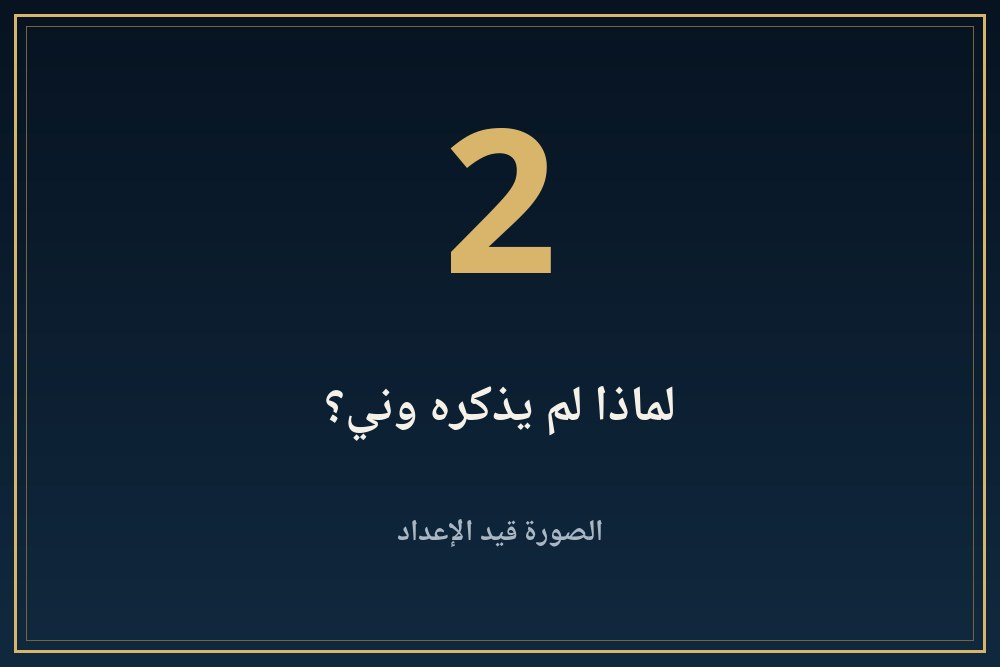
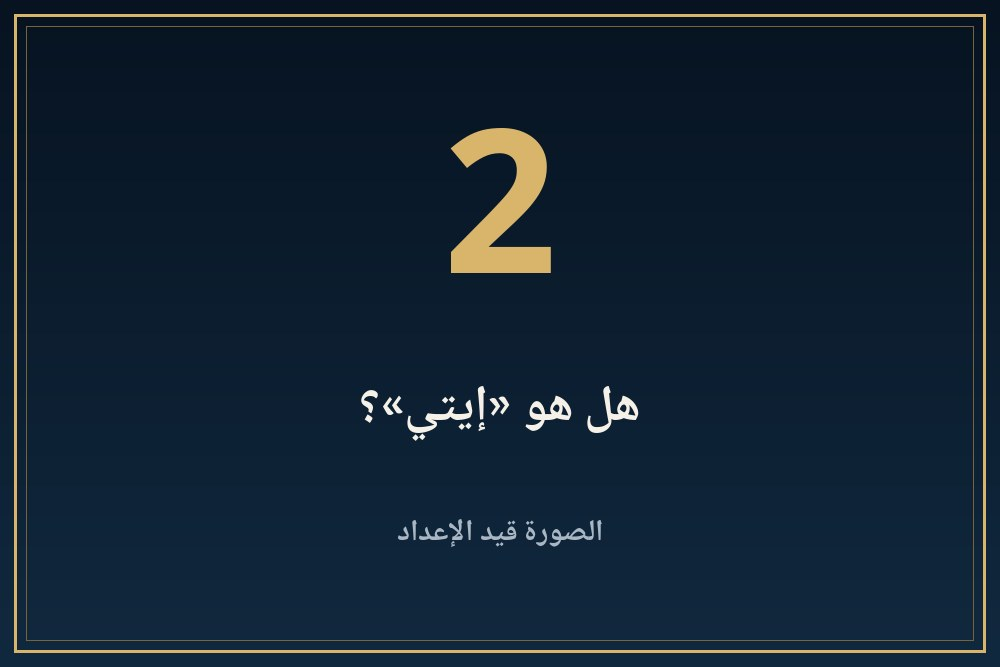
King 032: rebuilt from updated content (placeholders, audio pending)

Changed region(s): [[0.31, 0.5697, 0.682, 0.6597]]

diff --git a/kings/032-awsr-ka-ra/index.html b/kings/032-awsr-ka-ra/index.html
@@ -324,7 +324,7 @@ html[dir=ltr] #panav.open,#pash[dir=ltr] #panav.open{border-right:0!important;bo
 <div class="row"><span class="bdg v">موثّق</span><span>مذكور في مصدر مرقّم يمكن فتحه من قسم المراجع.</span></div>
 <div class="row"><span class="bdg d">محل خلاف</span><span>الصفحة نفسها تذكر أن الباحثين أو المصادر مختلفون فيه.</span></div>
 <div class="row"><span class="bdg u">لم يُتحقق منه</span><span>الصفحة تذكر أنه من مصدر واحد ولم يُتحقق منه في مصدر ثانٍ.</span></div></div>
-<div class="band" aria-hidden="true"></div><details class="acc k1" id="s1"><summary><img class="bnr" src="banners/b01.jpg?v=1" alt="" width="1000" height="667"><span class="n">1</span><span class="t">ماذا قال سليم حسن؟</span><span class="ch"></span></summary><div class="body"><button class="lbtn" type="button" disabled aria-disabled="true" style="opacity:.55;cursor:default"><svg viewBox="0 0 24 24" fill="currentColor" aria-hidden="true"><path d="M7 4.5v15a1 1 0 001.5.86l12-7.5a1 1 0 000-1.72l-12-7.5A1 1 0 007 4.5z"/></svg><span>التعليق الصوتي قريبًا</span></button><p><span class="bdg v">موثّق</span> يذكر سليم حسن (ج1 ص275) أن موظفا جاء بمئة رام وألف حجار لقطع أحجار هرم وسر كا رع، وأن وني لم يذكره.<sup><a href="#r1">[1]</a></sup></p></div></details><details class="acc k2" id="s2"><summary><img class="bnr" src="banners/b02.jpg?v=1" alt="" loading="lazy" width="1000" height="667"><span class="n">2</span><span class="t">لماذا لم يذكره وني؟</span><span class="ch"></span></summary><div class="body"><button class="lbtn" type="button" disabled aria-disabled="true" style="opacity:.55;cursor:default"><svg viewBox="0 0 24 24" fill="currentColor" aria-hidden="true"><path d="M7 4.5v15a1 1 0 001.5.86l12-7.5a1 1 0 000-1.72l-12-7.5A1 1 0 007 4.5z"/></svg><span>التعليق الصوتي قريبًا</span></button><p><span class="bdg v">موثّق</span> يقول سليم حسن (ص275) إن وني لم يذكره. ولم نقرأ تفسيرا في مصادرنا، فلا نذكر تفسيرا.<sup><a href="#r1">[1]</a></sup></p></div></details><details class="acc k3" id="s3"><summary><img class="bnr" src="banners/b03.jpg?v=1" alt="" loading="lazy" width="1000" height="667"><span class="n">3</span><span class="t">ما لا نعرفه</span><span class="ch"></span></summary><div class="body"><button class="lbtn" type="button" disabled aria-disabled="true" style="opacity:.55;cursor:default"><svg viewBox="0 0 24 24" fill="currentColor" aria-hidden="true"><path d="M7 4.5v15a1 1 0 001.5.86l12-7.5a1 1 0 000-1.72l-12-7.5A1 1 0 007 4.5z"/></svg><span>التعليق الصوتي قريبًا</span></button><p><span class="bdg u">لم يُتحقق منه</span> لا نعرف مدة حكمه ولا أسرته ولا هرمه. وسنضيف ما نقرؤه.</p></div></details><details class="acc k4" id="refs"><summary><img class="bnr" src="banners/b04.jpg?v=1" alt="" loading="lazy" width="1000" height="667"><span class="n">4</span><span class="t">المراجع</span><span class="ch"></span></summary><div class="body"><button class="lbtn" type="button" disabled aria-disabled="true" style="opacity:.55;cursor:default"><svg viewBox="0 0 24 24" fill="currentColor" aria-hidden="true"><path d="M7 4.5v15a1 1 0 001.5.86l12-7.5a1 1 0 000-1.72l-12-7.5A1 1 0 007 4.5z"/></svg><span>التعليق الصوتي قريبًا</span></button><p><b>مصادر فتحتُ صفحاتها وقرأتها:</b></p><ol><li id="r1" dir="auto">سليم حسن، موسوعة مصر القديمة، ج1، الفصل 15: <a dir="ltr" style="display:inline-block;overflow-wrap:anywhere" href="https://archive.org/details/20201104_20201104_1559" rel="noopener" target="_blank">archive.org/details/20201104_20201104_1559</a></li></ol><div class="flag"><b>تنبيه:</b> عدد المصادر المصرية المفتوحة لهذه الصفحة واحد فقط. لا نضيف تفاصيل لم تثبت في مصدر فتحناه وقرأنا نصه، وحيث يختلف المصدران ننسب كل رأي لصاحبه.</div></div></details></article><aside class="abt" aria-label="عن هذه الصفحة"><h3>عن هذه الصفحة</h3><ul><li><b>المحتوى</b><span>جزء من موسوعة بر عنخ التعليمية. التواريخ والتفسيرات وفق المراجع المتاحة، وقد تختلف التفاصيل بين الدراسات.</span></li><li><b>الصور</b><span>صور هذه الصفحة أماكن حجز مؤقتة إلى أن تُضاف الصور الفنية.</span></li><li><b>الصوت</b><span>التعليق الصوتي قيد الإعداد.</span></li></ul></aside><a class="back" href="/kings/">← تصفح المزيد</a><a class="back" href="/">العودة إلى الرئيسية</a><dialog id="lb"><img alt=""><p></p><button type="button">إغلاق</button></dialog>
+<div class="band" aria-hidden="true"></div><details class="acc k1" id="s1"><summary><img class="bnr" src="banners/b01.jpg?v=1" alt="" width="1000" height="667"><span class="n">1</span><span class="t">من هو؟</span><span class="ch"></span></summary><div class="body"><button class="lbtn" type="button" disabled aria-disabled="true" style="opacity:.55;cursor:default"><svg viewBox="0 0 24 24" fill="currentColor" aria-hidden="true"><path d="M7 4.5v15a1 1 0 001.5.86l12-7.5a1 1 0 000-1.72l-12-7.5A1 1 0 007 4.5z"/></svg><span>التعليق الصوتي قريبًا</span></button><p><span class="bdg v">موثّق</span> يقول كتاب الميت (ص35) إن بردية تورين وحجر جنوب سقارة يدلان على وجود فرعون بين تيتي وبيبي الأول، قد يكون الملك وسر كا رع المذكور في قائمة سيتي الأول في أبيدوس. ويضع نور الدين (ص715) في قائمة الأسرة السادسة «وسر كا رع (؟)» ثانيا. ولا يذكره صالح باسمه في ما قرأناه.<sup><a href="#r2">[2]</a><a href="#r3">[3]</a></sup></p></div></details><details class="acc k2" id="s2"><summary><img class="bnr" src="banners/b02.jpg?v=1" alt="" loading="lazy" width="1000" height="667"><span class="n">2</span><span class="t">هل هو «إيتي»؟</span><span class="ch"></span></summary><div class="body"><button class="lbtn" type="button" disabled aria-disabled="true" style="opacity:.55;cursor:default"><svg viewBox="0 0 24 24" fill="currentColor" aria-hidden="true"><path d="M7 4.5v15a1 1 0 001.5.86l12-7.5a1 1 0 000-1.72l-12-7.5A1 1 0 007 4.5z"/></svg><span>التعليق الصوتي قريبًا</span></button><p><span class="bdg d">محل خلاف</span> يتساءل كتاب الميت (ص35): هل هو «ابن رع إيتي» المذكور في نقشين في وادي الحمامات؟ وهل كان مسؤولا عن مقتل تيتي الذي ذكره مانيتون؟ ويقول إن وثائق قليلة حملت اسمه، وهرمه مجهول، وإن النصوص السيرية تنتقل مباشرة من تيتي إلى بيبي الأول. كلها أسئلة بلا جواب.<sup><a href="#r3">[3]</a></sup></p></div></details><details class="acc k3" id="s3"><summary><img class="bnr" src="banners/b03.jpg?v=1" alt="" loading="lazy" width="1000" height="667"><span class="n">3</span><span class="t">ما قاله سليم حسن</span><span class="ch"></span></summary><div class="body"><button class="lbtn" type="button" disabled aria-disabled="true" style="opacity:.55;cursor:default"><svg viewBox="0 0 24 24" fill="currentColor" aria-hidden="true"><path d="M7 4.5v15a1 1 0 001.5.86l12-7.5a1 1 0 000-1.72l-12-7.5A1 1 0 007 4.5z"/></svg><span>التعليق الصوتي قريبًا</span></button><p><span class="bdg v">موثّق</span> يذكر سليم حسن (ص275) أن موظفا جاء بمئة رام وألف حجار لقطع أحجار هرم وسر كا رع، وأن وني لم يذكره.<sup><a href="#r1">[1]</a></sup></p></div></details><details class="acc k4" id="s4"><summary><img class="bnr" src="banners/b04.jpg?v=1" alt="" loading="lazy" width="1000" height="667"><span class="n">4</span><span class="t">ما لا نعرفه</span><span class="ch"></span></summary><div class="body"><button class="lbtn" type="button" disabled aria-disabled="true" style="opacity:.55;cursor:default"><svg viewBox="0 0 24 24" fill="currentColor" aria-hidden="true"><path d="M7 4.5v15a1 1 0 001.5.86l12-7.5a1 1 0 000-1.72l-12-7.5A1 1 0 007 4.5z"/></svg><span>التعليق الصوتي قريبًا</span></button><p><span class="bdg u">لم يُتحقق منه</span> لا نعرف مدة حكمه ولا أسرته ولا هرمه ولا هل قتل تيتي. ونعرض الاحتمالات التي في كتاب الميت دون ترجيح.</p></div></details><details class="acc k4" id="refs"><summary><img class="bnr" src="banners/b05.jpg?v=1" alt="" loading="lazy" width="1000" height="667"><span class="n">5</span><span class="t">المراجع</span><span class="ch"></span></summary><div class="body"><button class="lbtn" type="button" disabled aria-disabled="true" style="opacity:.55;cursor:default"><svg viewBox="0 0 24 24" fill="currentColor" aria-hidden="true"><path d="M7 4.5v15a1 1 0 001.5.86l12-7.5a1 1 0 000-1.72l-12-7.5A1 1 0 007 4.5z"/></svg><span>التعليق الصوتي قريبًا</span></button><p><b>مصادر فتحتُ صفحاتها وقرأتها:</b></p><ol><li id="r1" dir="auto">سليم حسن، موسوعة مصر القديمة، ج1، الفصل 15: <a dir="ltr" style="display:inline-block;overflow-wrap:anywhere" href="https://archive.org/details/20201104_20201104_1559" rel="noopener" target="_blank">archive.org/details/20201104_20201104_1559</a></li><li id="r2" dir="auto">عبد الحليم نور الدين، آثار وحضارة مصر القديمة ج1، أرقام صفحات PDF: <a dir="ltr" style="display:inline-block;overflow-wrap:anywhere" href="https://archive.org/details/AAlexandrina-117303" rel="noopener" target="_blank">archive.org/details/AAlexandrina-117303</a></li><li id="r3" dir="auto">The Metropolitan Museum of Art, Egyptian Art in the Age of the Pyramids, 1999 (فصول كوزلوف وأرنولد وزيجلر وجريمال): <a dir="ltr" style="display:inline-block;overflow-wrap:anywhere" href="https://www.metmuseum.org/met-publications/egyptian-art-in-the-age-of-the-pyramids" rel="noopener" target="_blank">www.metmuseum.org/met-publications/egyptian-art-in-the-age-of-the-pyramids</a></li></ol></div></details></article><aside class="abt" aria-label="عن هذه الصفحة"><h3>عن هذه الصفحة</h3><ul><li><b>المحتوى</b><span>جزء من موسوعة بر عنخ التعليمية. التواريخ والتفسيرات وفق المراجع المتاحة، وقد تختلف التفاصيل بين الدراسات.</span></li><li><b>الصور</b><span>صور هذه الصفحة أماكن حجز مؤقتة إلى أن تُضاف الصور الفنية.</span></li><li><b>الصوت</b><span>التعليق الصوتي قيد الإعداد.</span></li></ul></aside><a class="back" href="/kings/">← تصفح المزيد</a><a class="back" href="/">العودة إلى الرئيسية</a><dialog id="lb"><img alt=""><p></p><button type="button">إغلاق</button></dialog>
 <script>(function(){var A=function(){return document.querySelectorAll("details.acc")};
 document.getElementById("all").onclick=function(){A().forEach(function(d){d.open=true})};
 document.getElementById("none").onclick=function(){A().forEach(function(d){d.open=false})};
@@ -332,7 +332,7 @@ function go(h){var e=h&&document.getElementById(h.slice(1));if(!e)return;var d=e
 document.addEventListener("click",function(e){var a=e.target.closest&&e.target.closest('a[href^="#"]');if(a){go(a.getAttribute("href"))}});
 if(location.hash)go(location.hash);
 var d=document.getElementById("lb");if(!d||!d.showModal)return;var im=d.querySelector("img"),p=d.querySelector("p");document.addEventListener("click",function(e){var t=e.target;if(t.tagName=="IMG"&&t.closest(".fig")){im.src=t.src;im.alt=t.alt;p.textContent=t.closest("figure").querySelector("figcaption").innerText;d.showModal()}else if(t==d||t.tagName=="BUTTON"&&d.contains(t)){d.close()}})})();</script><div class="pbar" id="pbar"></div><div class="pl" id="pl" role="region" aria-label="مشغّل الاستماع"><div class="in"><button class="pp" id="pp" type="button" aria-label="تشغيل"><svg viewBox="0 0 24 24" fill="currentColor" aria-hidden="true"><path d="M7 4.5v15a1 1 0 001.5.86l12-7.5a1 1 0 000-1.72l-12-7.5A1 1 0 007 4.5z"/></svg></button><div class="mid"><div class="ttl"><span id="tt">استماع</span> <i>صوت اصطناعي</i></div><input id="sk" type="range" min="0" max="1000" value="0" aria-label="موضع التشغيل"><div class="tm"><span id="cur">0:00</span><span id="dur">0:00</span></div></div><div class="ex"><button id="bk" type="button" aria-label="رجوع 10 ثوانٍ">−10</button><button id="fw" type="button" aria-label="تقدم 10 ثوانٍ">+10</button><button id="sp" class="sp" type="button" aria-label="سرعة التشغيل">1×</button><button id="cl" type="button" aria-label="إغلاق المشغّل">✕</button></div><p class="err" id="er" role="alert" hidden>تعذر تحميل الملف الصوتي. حاول لاحقًا.</p></div><div aria-live="polite" id="st" style="position:absolute;left:-9999px"></div><audio id="au" preload="none"></audio></div></main><script>(function(){
-var S={"s1": ["ماذا قال سليم حسن؟", 1], "s2": ["لماذا لم يذكره وني؟", 1], "s3": ["ما لا نعرفه", 1], "refs": ["المراجع", 1]},$=function(i){return document.getElementById(i)},au=$("au"),pl=$("pl"),pp=$("pp"),sk=$("sk"),P="<svg viewBox=\"0 0 24 24\" fill=\"currentColor\" aria-hidden=\"true\"><path d=\"M7 4.5v15a1 1 0 001.5.86l12-7.5a1 1 0 000-1.72l-12-7.5A1 1 0 007 4.5z\"/></svg>",Q="<svg viewBox=\"0 0 24 24\" fill=\"currentColor\" aria-hidden=\"true\"><rect x=\"5.5\" y=\"4\" width=\"4.5\" height=\"16\" rx=\"1.2\"/><rect x=\"14\" y=\"4\" width=\"4.5\" height=\"16\" rx=\"1.2\"/></svg>",cur=null,part=1,seeking=false;
+var S={"s1": ["من هو؟", 1], "s2": ["هل هو «إيتي»؟", 1], "s3": ["ما قاله سليم حسن", 1], "s4": ["ما لا نعرفه", 1], "refs": ["المراجع", 1]},$=function(i){return document.getElementById(i)},au=$("au"),pl=$("pl"),pp=$("pp"),sk=$("sk"),P="<svg viewBox=\"0 0 24 24\" fill=\"currentColor\" aria-hidden=\"true\"><path d=\"M7 4.5v15a1 1 0 001.5.86l12-7.5a1 1 0 000-1.72l-12-7.5A1 1 0 007 4.5z\"/></svg>",Q="<svg viewBox=\"0 0 24 24\" fill=\"currentColor\" aria-hidden=\"true\"><rect x=\"5.5\" y=\"4\" width=\"4.5\" height=\"16\" rx=\"1.2\"/><rect x=\"14\" y=\"4\" width=\"4.5\" height=\"16\" rx=\"1.2\"/></svg>",cur=null,part=1,seeking=false;
 function fmt(t){if(!isFinite(t))return"0:00";var m=Math.floor(t/60),s=Math.floor(t%60);return m+":"+(s<10?"0":"")+s}
 function btns(){document.querySelectorAll(".lbtn").forEach(function(b){var on=b.dataset.s===cur&&!au.paused;b.classList.toggle("on",on);b.querySelector("span").textContent=on?"إيقاف مؤقت":(b.dataset.s===cur&&au.currentTime>1?"أكمل الاستماع":"استمع لهذا القسم");b.querySelector("svg").outerHTML=on?Q:P})}
 function ui(){var pa=au.paused;pp.innerHTML=pa?P:Q;pp.setAttribute("aria-label",pa?"تشغيل":"إيقاف مؤقت");btns()}
